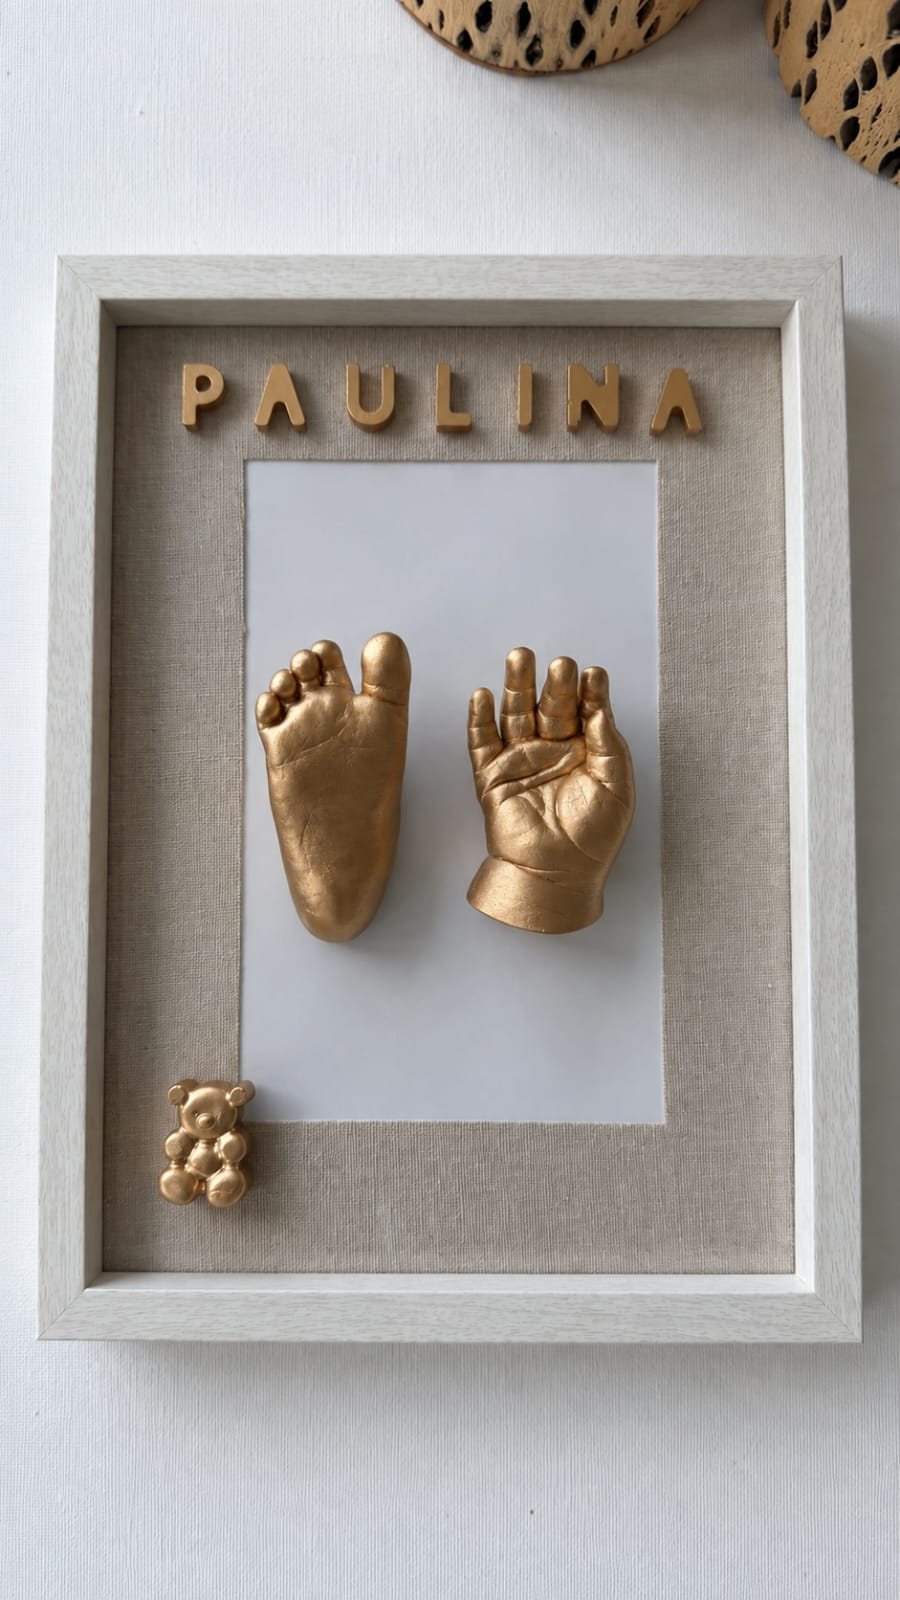
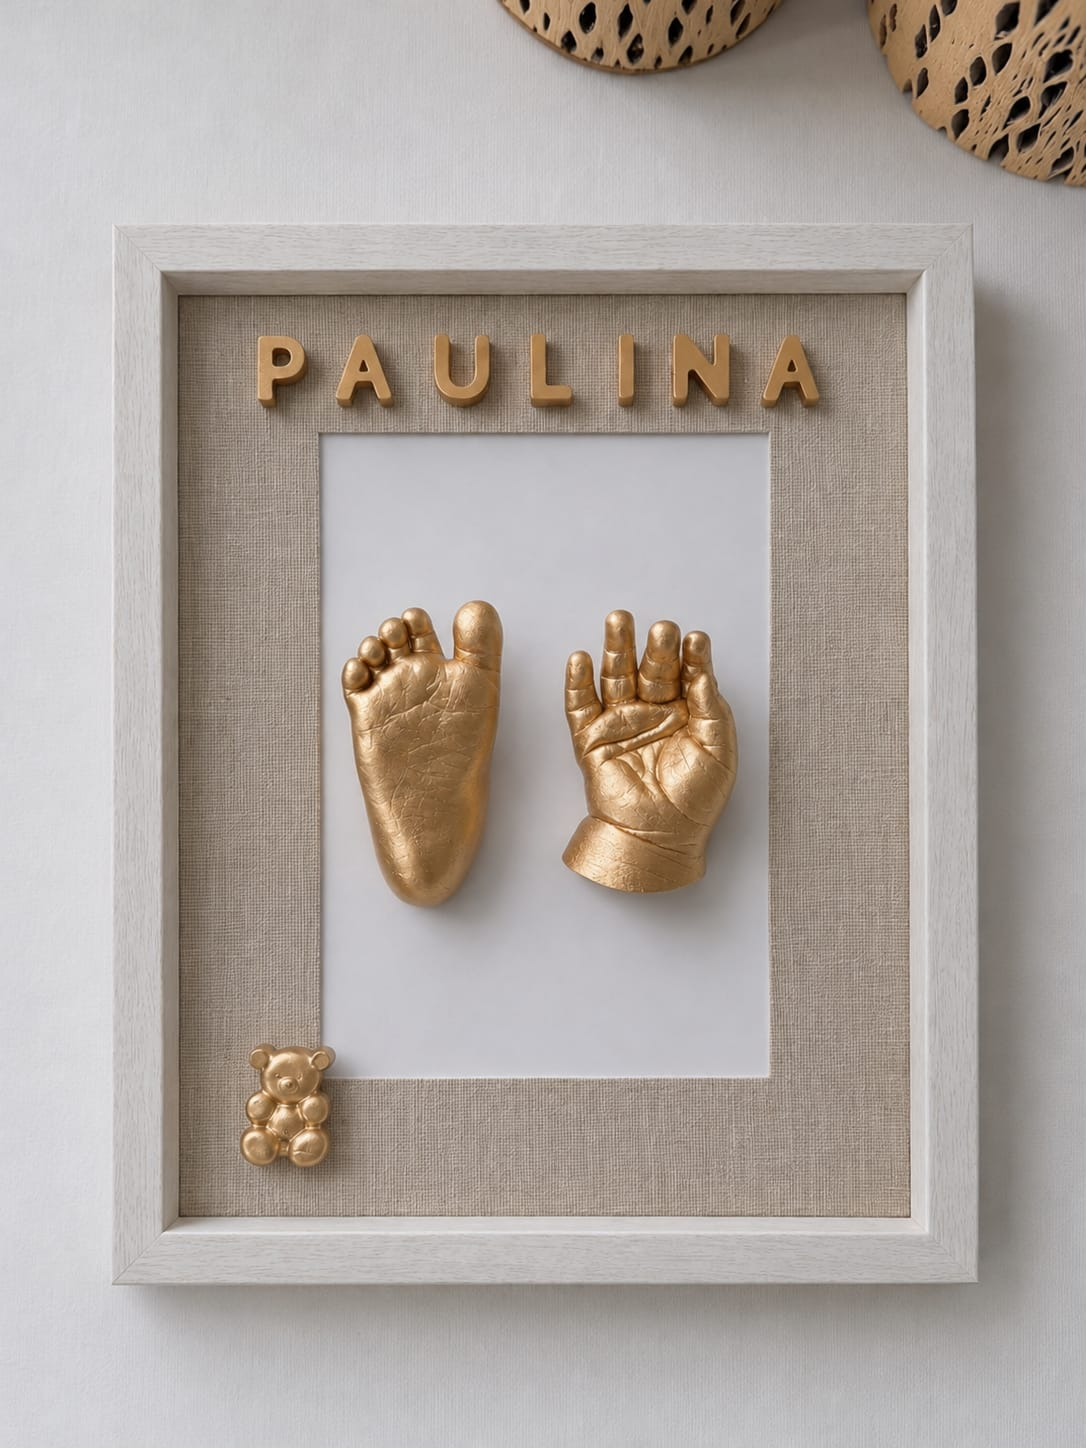
Cuadro de 2 piezas: fotos nuevas de Olivia y Paulina, sin Vito, con nombre y accesorio

diff --git a/index.html b/index.html
@@ -759,7 +759,6 @@ header>*{pointer-events:auto}
           <img src="img/cat/paulina.jpg" data-e="0" data-n="Paulina" alt="Cuadro de Paulina con piecito y manito dorados y un osito" loading="lazy">
           <img src="img/cat/olivia-lino.jpg" data-e="0" data-n="Olivia" alt="Cuadro de lino de Olivia con dos piecitos dorados y una pluma" loading="lazy">
           <img src="img/cat/joaquin.jpg" data-e="0" data-n="Joaquín" alt="Cuadro de madera de Joaquín con piecito y manito en cobre y una pluma" loading="lazy">
-          <img src="img/cat/vito.jpg" data-e="0" data-n="Vito" alt="Cuadro de lino de Vito con puñito y piecito en cobre" loading="lazy">
           <img src="img/cat/isabel-sofia.jpg" data-e="1" data-n="Isabel" alt="Cuadro de lino de Isabel Sofía con piecito y manito dorados y una jirafita" loading="lazy">
           <img src="img/cat/antonella.jpg" data-e="1" data-n="Antonella" alt="Cuadro de Antonella con piecito y manito dorados" loading="lazy">
           <img src="img/cat/milu-cobre.jpg" data-e="2 3" data-n="Milu" alt="Cuadro de Milu con mano y pie de niña en cobre, al lado de una mano adulta" loading="lazy">
@@ -1226,7 +1225,7 @@ const CAT = {
   titulos: i => ['1 pieza', '2 piezas', '2 piezas + foto', i < 2 ? '4 piezas + foto' : '4 piezas + fotos'],
   subs: i => [
     i === 3 ? 'Una mano, con nombre y accesorio.' : 'Una manito o un piecito, con nombre y accesorio.',
-    i === 3 ? 'Las dos manos.' : 'Manos, pies o combinado.',
+    i === 3 ? 'Las dos manos, con nombre y accesorio.' : 'Manos, pies o combinado, con nombre y accesorio.',
     'Foto y/o datos: nombre, accesorios y marco de 45×30 cm.',
     i < 2 ? '2 manitos + 2 piecitos, foto y/o datos. Marco de 47×37 cm.' : '4 piezas con una o dos fotos. Marco de 47×37 cm.'
   ]
